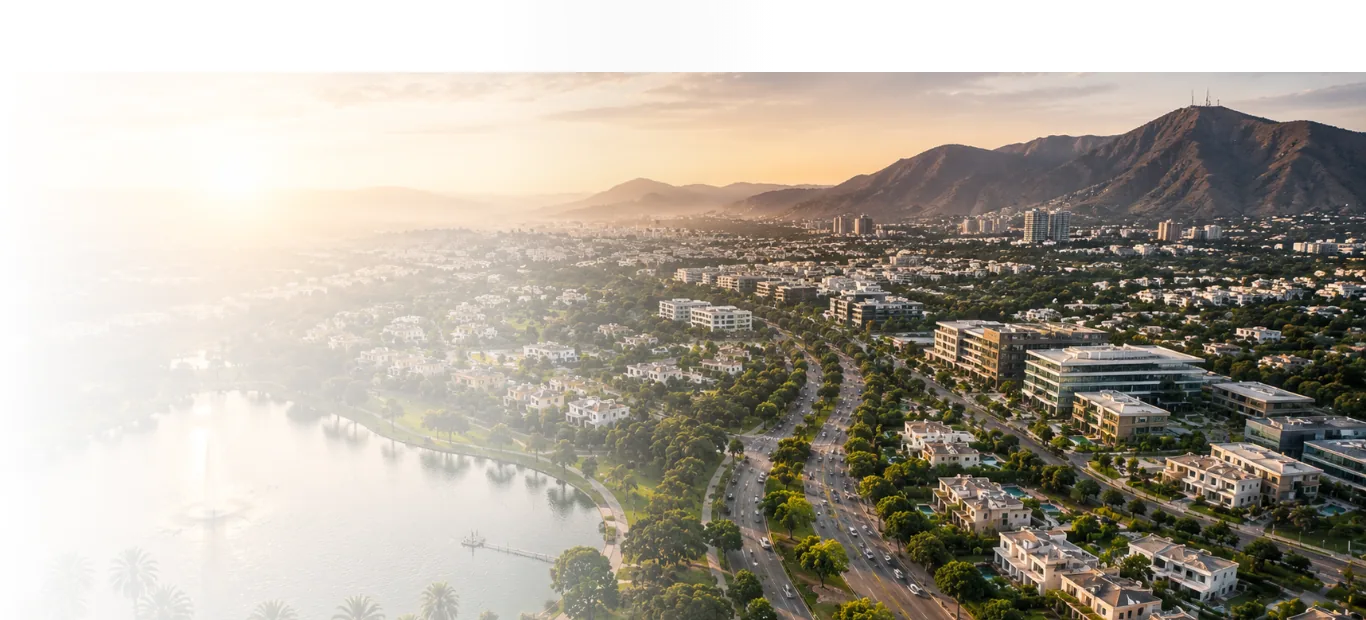
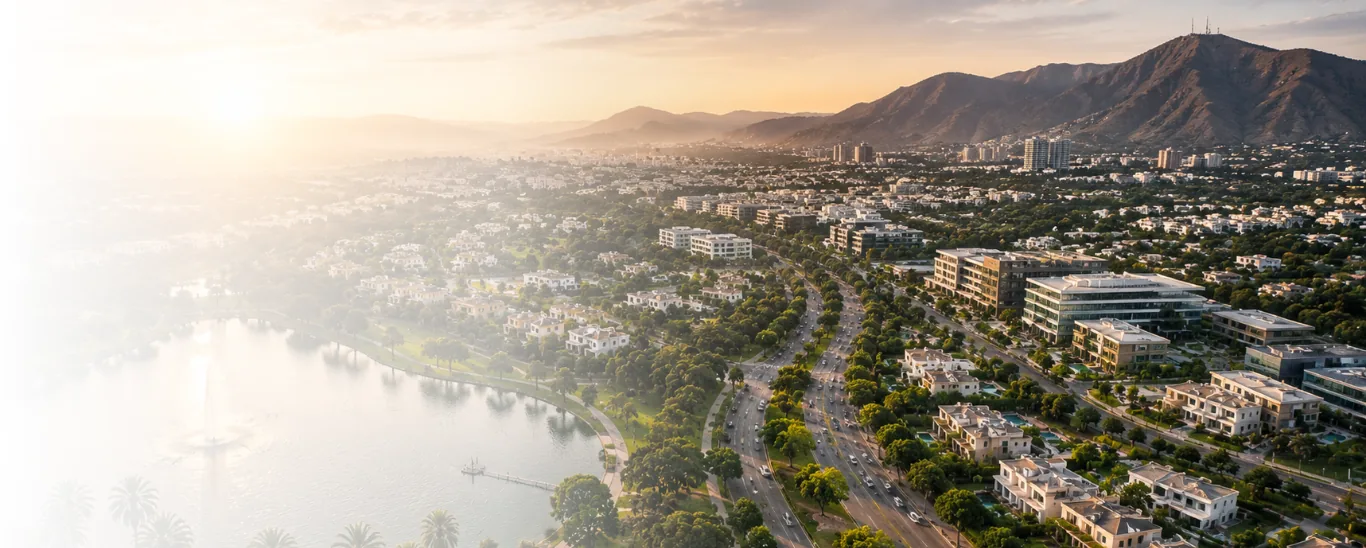
Corrige el hero: el asset de fondo traía el área del header
El fondo venía de Figma como 1366x620 pero sus primeros 72px eran el
área del header: una franja semitransparente (opaca a la izquierda,
transparente a la derecha). La foto real arranca en y=72 y mide
1366x548.

Eso causaba dos cosas: la banda en multiply caía sobre esa franja y
multiplicaba contra el blanco de la página -de ahí el marrón que se
veía encima- y el hero se dimensionaba con 620px, así que object-fit
cover agrandaba la foto 1.41x y la recortaba.

Recortado el asset a 1366x548 y ajustadas las proporciones: la foto
ahora entra justa a cualquier ancho, sin recorte. El retrato pasa a
92.5% del alto (507/548).

diff --git a/src/sections/hero/Hero.css b/src/sections/hero/Hero.css
@@ -23,8 +23,13 @@
   isolation: isolate;
   display: flex;
   align-items: center;
-  /* 45.4vw = 620px a 1366. Con piso para móviles y techo para pantallas grandes. */
-  min-height: clamp(480px, 45.4vw, 760px);
+  /*
+   * 40.12vw = 548px a 1366, que es el alto REAL de la foto.
+   * El asset venía de 620px pero sus primeros 72px eran el área del header
+   * (transparente); se recortó. Mantener esta proporción hace que la foto
+   * entre justa a cualquier ancho, sin recorte ni zoom.
+   */
+  min-height: clamp(400px, 40.12vw, 820px);
   background: var(--color-fondo);
   overflow: hidden;
 }
@@ -59,7 +64,7 @@
 
 /*
  * Retrato: 504×507 apoyado en el piso del hero, a 112px del borde derecho.
- *   507 / 620 = 81.8% del alto de la sección
+ *   507 / 548 = 92.5% del alto de la sección (548 = alto real de la foto)
  *   112 / 1366 = 8.2% del ancho
  * En porcentajes y no en px para que acompañe al hero al escalar.
  */
@@ -68,7 +73,7 @@
   right: 8.2%;
   bottom: 0;
   z-index: -1;
-  height: 81.8%;
+  height: 92.5%;
   width: auto;
   object-fit: contain;
   object-position: bottom;
